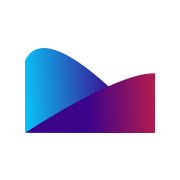
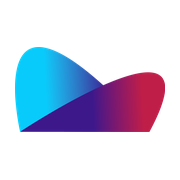
fix(site): revisao do cliente de 10/09 nos cases, rodape e icones
Sete itens do FEED-BACK WEBSITE 100926.docx.

Fichas de informacoes:

- Dutos passa a Julho de 2026 / 3 semanas nos tres locales.
- Baleias passa a 2 anos. As tags eram as do case de dutos
  ("integridade de dutos"), copiadas por engano; viram tags de
  bioacustica marinha.

Legenda da figura de sinais do case de dutos: os tres itens ficam um
por linha. O `\n` so rende porque `.case-figure__caption` e
`.case-panel__figure-caption` ganharam `white-space: pre-line`. De
quebra a pontuacao fica uniforme — alternava entre "Imagem I.:" e
"Imagem III.".

Rodape perde o telefone e fica so o e-mail. O campo continua no schema;
o seed grava `phone: null` para limpar o valor ja existente no CMS.

Marca cortada no favicon e no logo empilhado do card: a causa era o
`viewBox` de `logo-mark.svg`, menor que o path, que decepava a asa
direita e a base. Corrigido a partir do vetor original do cliente
(CorelDRAW), e os quatro icones foram regerados dele — o de 512 agora
sai nitido em vez de ampliado de um raster de 85px.

O logo empilhado vive em `resources/` (gitignored) e sobe pelo seed. O
seed identifica upload pelo nome e nunca substitui conteudo, entao o
arquivo novo precisou de nome novo (`-completo`); o antigo fica orfao
na biblioteca de midia.

A traducao en/es dos cases, tambem pedida na revisao, ja tinha entrado
em ec41340.

Claude-Session: https://claude.ai/code/session_013Cb3DRUEeueXAEjgmL5em6

Changed region(s): [[0.0833, 0.25, 0.9167, 0.75]]

diff --git a/apps/web/components/ui/site-shell.tsx b/apps/web/components/ui/site-shell.tsx
@@ -28,7 +28,6 @@ type SiteShellProps = {
 
 const FALLBACK_LOGO = "/assets/img/logo-immer.png";
 const FALLBACK_CONTACT_EMAIL = "contato@immermessen.com";
-const FALLBACK_CONTACT_PHONE = "+55 41 00000-0000";
 
 function isActive(pathname: string, href: string) {
   if (pathname === href) return true;
@@ -150,9 +149,6 @@ export function SiteShell({
 
   const contactEmail =
     footer?.contactDetails?.email ?? global?.contactDetails?.email ?? FALLBACK_CONTACT_EMAIL;
-  const contactPhone =
-    footer?.contactDetails?.phone ?? global?.contactDetails?.phone ?? FALLBACK_CONTACT_PHONE;
-  const contactPhoneHref = `tel:${contactPhone.replace(/\D+/g, "")}`;
   const contactAddress =
     footer?.contactDetails?.address ?? global?.contactDetails?.address ?? null;
   const socialLinks = (global?.socialLinks ?? []).filter((social) =>
@@ -214,7 +210,6 @@ export function SiteShell({
               ) : null}
               <div className="footer-contact__links">
                 <a href={`mailto:${contactEmail}`}>{contactEmail}</a>
-                <a href={contactPhoneHref}>{contactPhone}</a>
               </div>
               {socialLinks.length > 0 ? (
                 <ul className="footer-social">

diff --git a/apps/web/app/globals.css b/apps/web/app/globals.css
@@ -2347,6 +2347,7 @@ a.case-info__logo:focus-visible {
   line-height: var(--case-lh-100);
   color: var(--c-gray-600);
   text-align: center;
+  white-space: pre-line;
 }
 
 /* ---------- 7. titulo com reguas ----------
@@ -2556,6 +2557,7 @@ a.case-info__logo:focus-visible {
   line-height: var(--case-lh-100);
   color: var(--c-gray-700);
   text-align: left;
+  white-space: pre-line;
 }
 
 @media (prefers-reduced-motion: reduce) {
